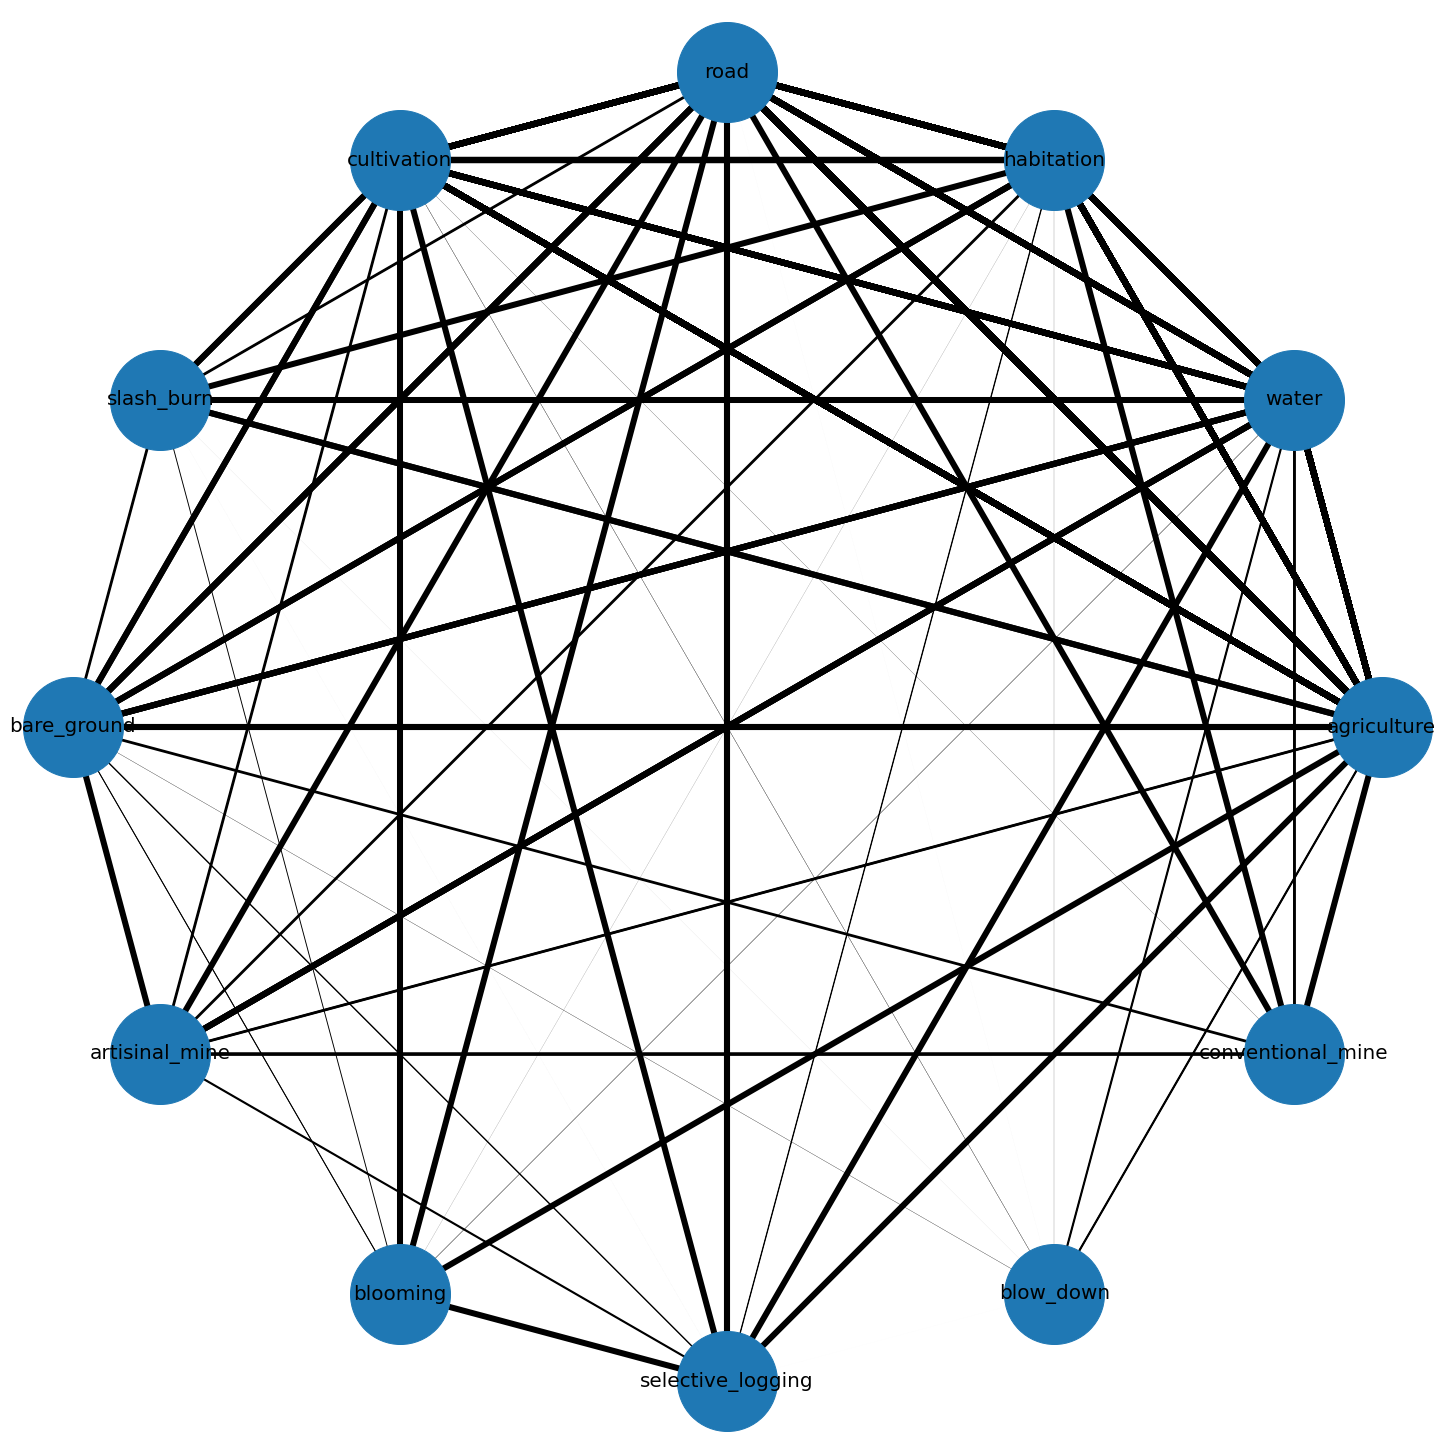
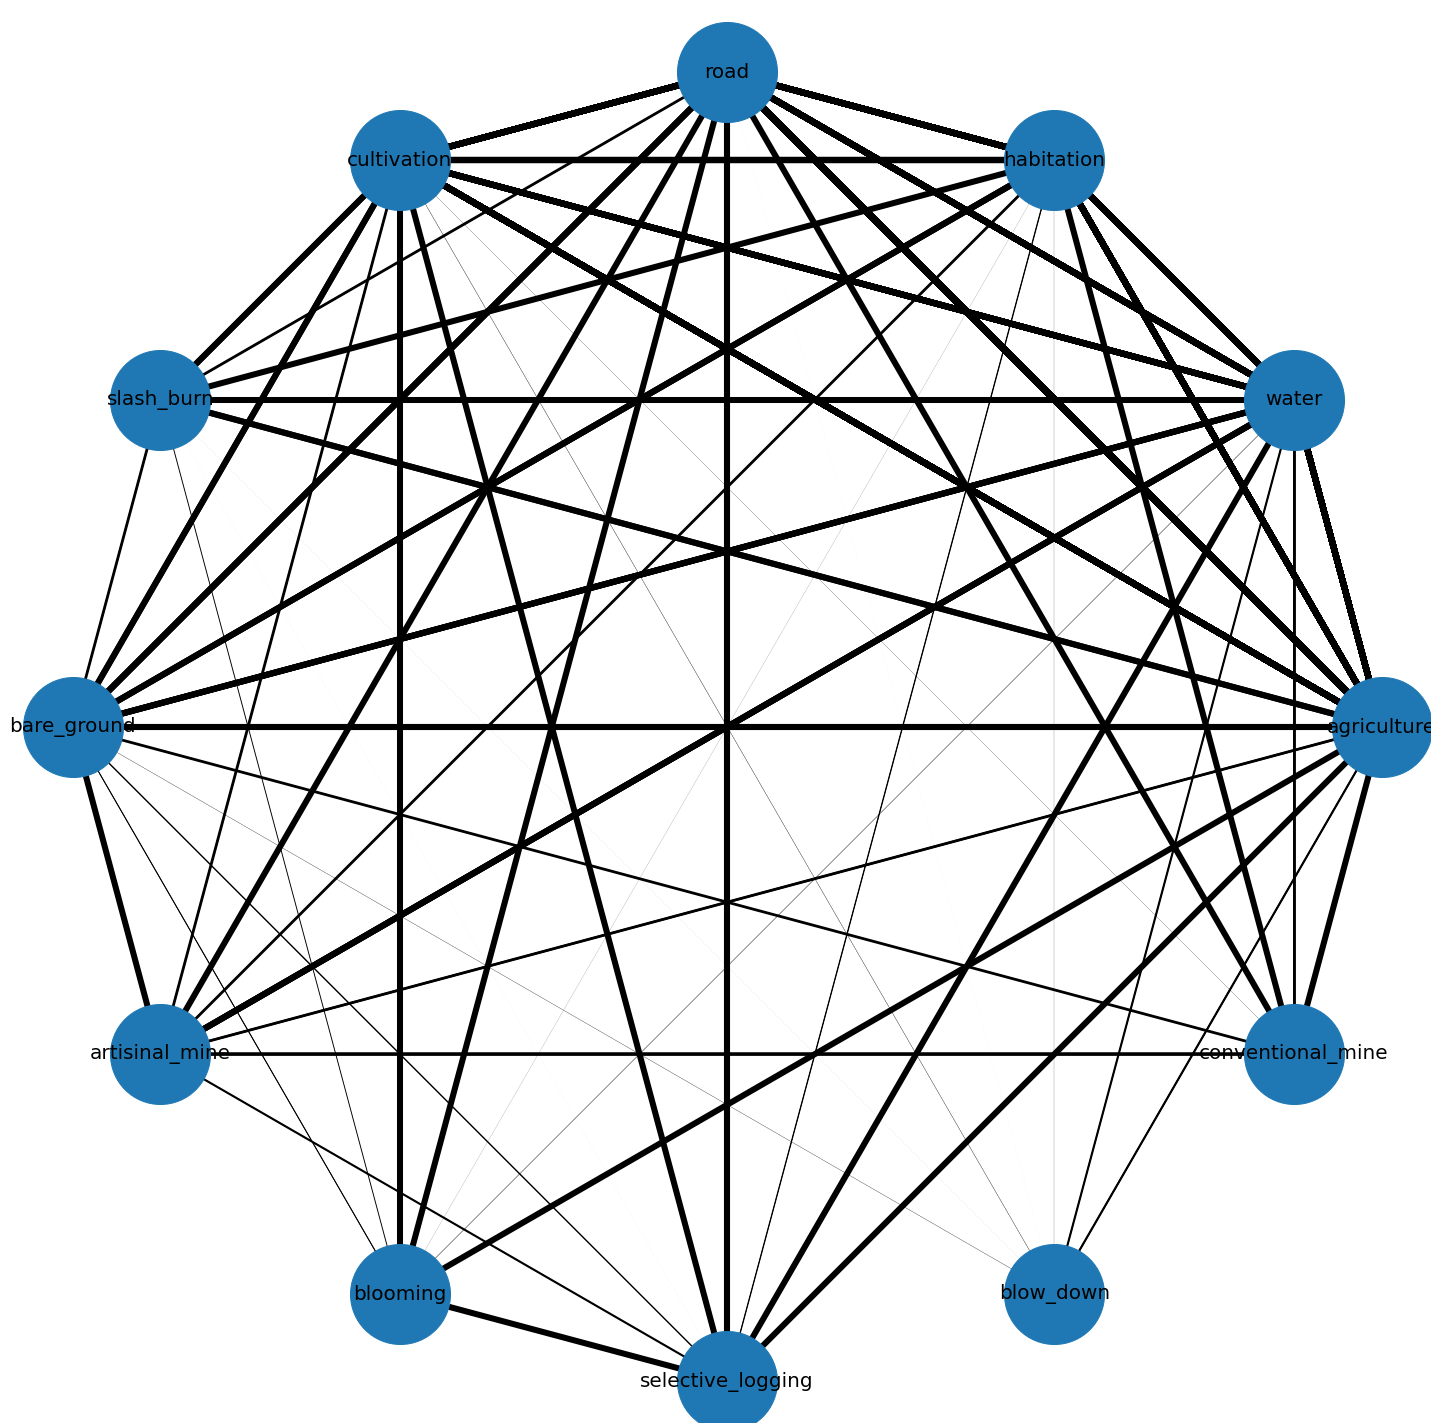
structural changes

Changed region(s): [[0.0, 0.0, 1.0, 1.0]]

diff --git a/projects/amazonia_image_satellite/amazonia_image_satellite.html b/projects/amazonia_image_satellite/amazonia_image_satellite.html
@@ -63,11 +63,11 @@
         </div>
 
         <div class="contents-graph-left">
-          <p style="text-align: justify; margin: 0px">
-            The 17 labels aren't well distributed, Figure 2 shows the discrepancy among labels quantity. While 'primary' has appered in almost every image in our image set, labels such as 'artisinal mine', 'blooming', 'slash and burn', 'blow down' and 'conventional mine' when added together don't even represent 5% of image labels.
+          <p style="text-align: justify;">
+            The 17 labels aren't well distributed, Figure 2 shows the discrepancy among labels quantity. While 'primary' has appered in almost every image in our image set, labels such as 'artisinal mine', 'blooming', 'slash and burn', 'blow down' and 'conventional mine' when added together don't even represent 5% of image labels, because of this from now on I will call them 'interest classes'.
           </p>
         </div>
-        <div class="graph-right">
+        <div class="graph-right" style="margin-top: 15px">
           <img
           alt="Labels Distribuition"
           src="./distrib.PNG"
@@ -79,13 +79,13 @@
         </div>
 
         <div>
-          <p style="text-align: justify;">
-            Due to the low number of some labels a search for something that could compensate it became necessary. Figure 3 shows the correlation between labels, i.e the percentile of images labeled on X class that also have the label Y. As we can see, the graph isn't mirrored, i.e a big number of appearance of a class with another  doesn't make the opposite true. We can see some obvious correlations like 'primary' with almost every other classes - once 'primary' appears in almost all images that is a thing that we could predict -  but we also can se some interesting correlations, like the high percentile of correlation between 'artisinal mine' and 'water', 'conventional mine' and 'road' and 'slash and burn' with 'agriculture' and 'cultivation'. This correlations are interesting because they can help us to compensate the lack of examples that we have to give to the deep learning networks.    
+          <p style="text-align: justify; margin: 0px">
+            Due to the low number of our interest classes a search for something that could compensate it became necessary. Figure 3 shows the correlation between labels, i.e the percentile of images labeled on X class that also have the label Y. As we can see, the graph isn't mirrored, i.e a big number of appearance of a class with another  doesn't make the opposite true. We can see some obvious correlations like 'primary' with almost every other classes - once 'primary' appears in almost all images that is a thing that we could predict -  but we also can se some interesting correlations, like the high percentile of correlation between 'artisinal mine' and 'water', 'conventional mine' and 'road' and 'slash and burn' with 'agriculture' and 'cultivation'. This correlations are interesting because they can help us to compensate the lack of examples that we have to give to the deep learning networks.    
           </p>
         </div>
 
-        <div class="graph-left" style="width: 65%">
-          <img 
+        <div class="graph-left">
+          <img style="margin-top: 25px" 
           alt="Labels Correlation"
           src="./correlation.png"
           />
@@ -97,21 +97,22 @@
 
         <div>
           <p style="text-align: justify;">
-            In order to explore more the relationships that could be helpful for deeplearning networks, the graph in Figure 4 was created. Each node represents a label - excluding weather condition labels - and each edge represents one time that two labels appeared together - bold edges means that two labels appears together in a large set of images whereas if two nodes don't have an edge, so their labels never appeared together. 
+            In order to explore more the relationships that could be helpful for the finding of our interests classes by the deeplearning networks, the graph in Figure 4 was created. Each node represents a label - excluding weather condition labels - and each edge represents how many times two labels appeared together - strong edges means that two labels appears together in a large set of images, whereas weak edges represents that two labels almost never appeared together. As we can se, our interest classes have less strong edges than the other classes. From that we could think that a set of other labels, that our interest class have a strong edge, can define if it will appear at the image.  
           </p>
-        </div>      
+        </div>    
+        <div class="graph-right">
+          <img
+          alt="Results Graph"
+          src="./grafo_labels.png"
+          />
+        </div>  
 <!--
-      <div class="images-right">
-        <img
-        alt="Results Graph"
-        src="./fbetaxtempo_clasf.png"
-        />
-      </div>
-      <div class="contents-left" style="text-align: center;">
-        <p style="text-align: justify;">
-          Description.
-        </p>
-      </div>
+  <div style="text-align: center">
+          <img
+          alt="Results Graph"
+          src="./fbetaxtempo_clasf.png"
+          />
+        </div>
 -->
   </div>
   </section>

diff --git a/assets/css/project.css b/assets/css/project.css
@@ -58,21 +58,21 @@
 @media only screen and (min-width:550px) {
     .graph-right {
         float: right;
-        width: 60%
+        width: 65%
     }
 
     .graph-left {
         float: left;
-        width: 60%
+        width: 65%
     }
 
     .contents-graph-right{
         float: right;
-        width: 38% 
+        width: 35% 
     }
 
     .contents-graph-left{
         float: left;
-        width: 38% 
+        width: 35% 
     }
 }
